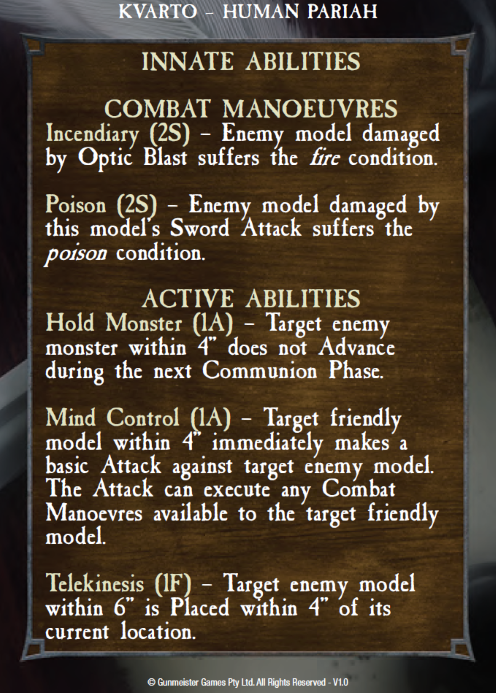
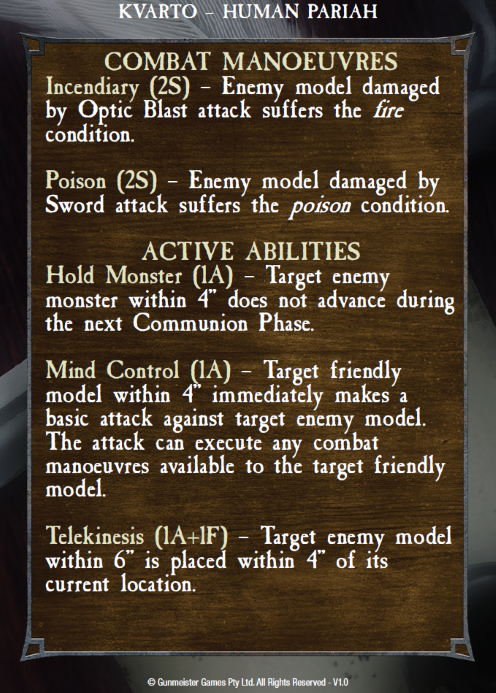
updated with new Kvarto image

Changed region(s): [[0.0605, 0.0606, 0.9375, 0.9394]]

diff --git a/css/site.css b/css/site.css
@@ -252,7 +252,7 @@ body
 
 .editHeros{
 	width: 500px;
-	height: 500px;
+	height: 508px;
 }
 
 .editItems{
